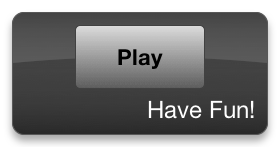
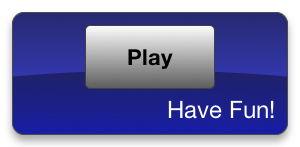
Make game end if score drops to zero

diff --git a/arrows/Dashboard Widget/ArrowKeyControl.wdgtproj/project.wdgt/KeyControl.js b/arrows/Dashboard Widget/ArrowKeyControl.wdgtproj/project.wdgt/KeyControl.js
@@ -81,7 +81,6 @@ var playing = false;
 var allowedChars = "\u25c0\u25b2\u25b6\u25bc";
 var allowedCodes = [37, 38, 39, 40];
 
-var slowestTime = 0;
 var allowedTime = 1000;
 var diffs = [];
 var chars = [];
@@ -105,12 +104,13 @@ function playGame(event)
    $("biginfo").style.visibility = "visible";
 
    score = 0;
+   allowedTime = 1000;
 
    setTimeout(function()
    {
       $("biginfo").style.visibility = "hidden";
       $("score").innerHTML = "GO!";
-
+diffs = [];
       chars = [];
       for(var i = 0; i < 4; i++) chars.push(generateCharacter());
 
@@ -134,23 +134,9 @@ function endRound(event)
    if(!playing) return;
 
    var diff = (new Date()).getTime() - startTime.getTime();
-//   diffs.push(diff);
-//console.log(diffs);
-   if(diff < 50 || diff > allowedTime) gameOver();
+   diffs.push(diff);
 
-   if(slowestTime == 0)
-   {
-      slowestTime = diff;
-   }
-   //else if((diff > (slowestTime * 1.2)) || (diff <= 50))
-   //{
-   //   gameOver();
-   //   return;
-   //}
-   else if(diff < slowestTime)
-   {
-      slowestTime = diff;
-   }
+   if(diff < 50 || diff > allowedTime) gameOver();
 
    if(allowedChars[allowedCodes.indexOf(event.keyCode)] == chars[0])
    {
@@ -161,20 +147,22 @@ function endRound(event)
    }
    else
    {
-      score = Math.floor(score * 0.9);
+      score = Math.floor(score * 0.5);
       $("score").innerHTML = nice(score);
       $("down").style.visibility = "visible";
       $("up").style.visibility = "hidden";
+
+     if(score <= 0) gameOver();
    }
 
-   allowedTime -= 20;
-   console.log(allowedTime);
+   allowedTime -= 7;
 
    startRound();
 }
 
 function gameOver()
 {
+console.log(diffs);
    playing = false;
    $("out").style.visibility = "hidden";
    $("up").style.visibility = "hidden";

diff --git a/arrows/Dashboard Widget/ArrowKeyControl.wdgtproj/project.wdgt/Parts/setup.js b/arrows/Dashboard Widget/ArrowKeyControl.wdgtproj/project.wdgt/Parts/setup.js
@@ -9,7 +9,7 @@ var dashcodePartSpecs = {
     "done": { "creationFunction": "CreateGlassButton", "onclick": "showFront", "text": "Done" },
     "down": { "creationFunction": "CreateText", "text": "⬇" },
     "glassbutton": { "creationFunction": "CreateGlassButton", "onclick": "gotoSite", "text": "Website" },
-    "info": { "backgroundStyle": "black", "creationFunction": "CreateInfoButton", "foregroundStyle": "white", "frontID": "front", "onclick": "showBack" },
+    "info": { "backgroundStyle": "white", "creationFunction": "CreateInfoButton", "foregroundStyle": "white", "frontID": "front", "onclick": "showBack" },
     "out": { "creationFunction": "CreateText" },
     "passDesc": { "creationFunction": "CreateText", "text": "Password:" },
     "play": { "creationFunction": "CreateButton", "leftImageWidth": 5, "onclick": "playGame", "rightImageWidth": 5, "text": "Play" },

diff --git a/arrows/Dashboard Widget/ArrowKeyControl.wdgtproj/project.wdgt/KeyControl.css b/arrows/Dashboard Widget/ArrowKeyControl.wdgtproj/project.wdgt/KeyControl.css
@@ -24,6 +24,8 @@ body {
     bottom: 18px;
     width: 13px;
     height: 13px;
+    left: auto;
+    top: 119px;
 }
 
 #back {
@@ -63,8 +65,8 @@ body {
     top: 95px;
     text-align: right;
     padding: 0px;
-    width: 203px;
-    left: 52px;
+    width: 213px;
+    left: 62px;
 }
 
 #biginfo {
@@ -78,7 +80,8 @@ body {
     font-family: HelveticaNeue-Bold;
     top: 43px;
     visibility: hidden;
-    left: 73px;
+    left: 83px;
+    height: auto;
 }
 
 #up {
@@ -142,7 +145,7 @@ body {
     height: 64px;
     width: 130px;
     top: 25px;
-    left: 75px;
+    left: 85px;
 }
 
 #out {
@@ -155,9 +158,9 @@ body {
     font-family: 'Helvetica Neue';
     left: 25px;
     text-align: left;
-    width: 230px;
     visibility: hidden;
     font-size: 46pt;
+    width: 250px;
 }
 
 #userDesc {
